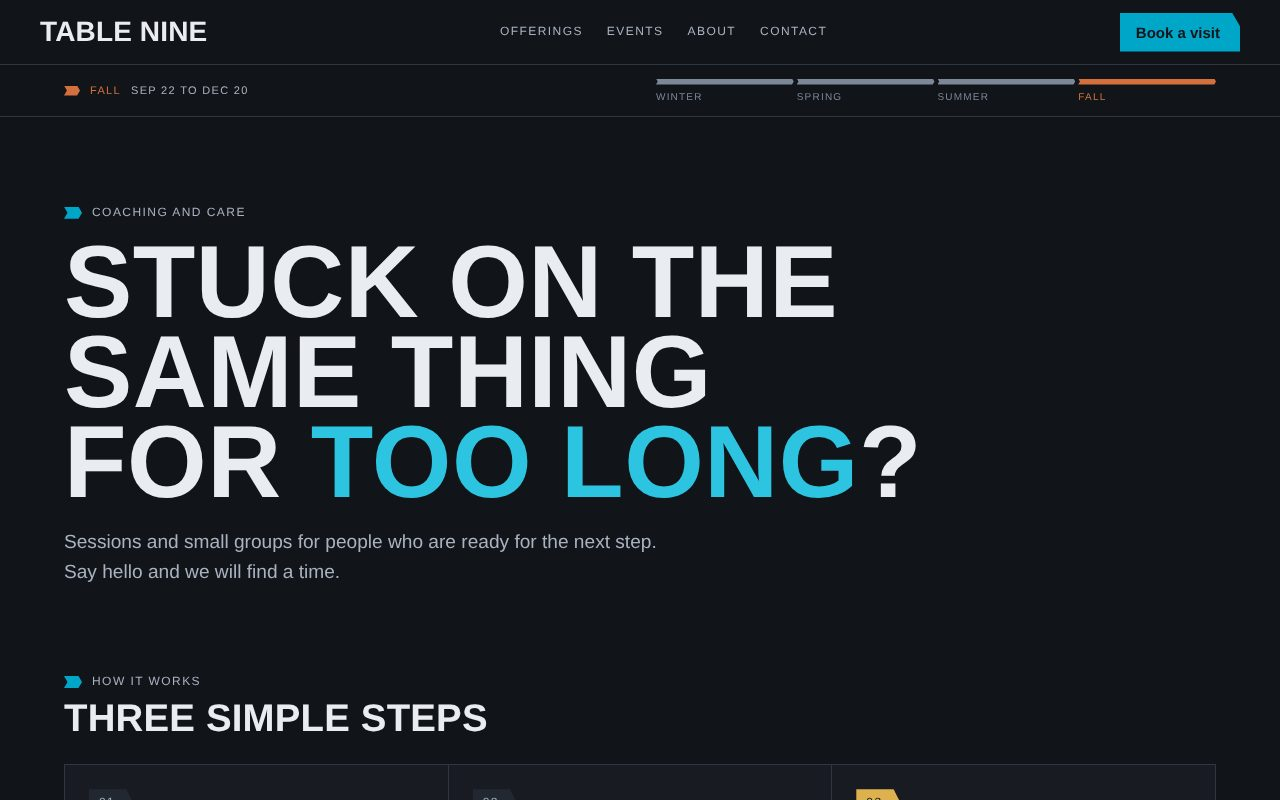
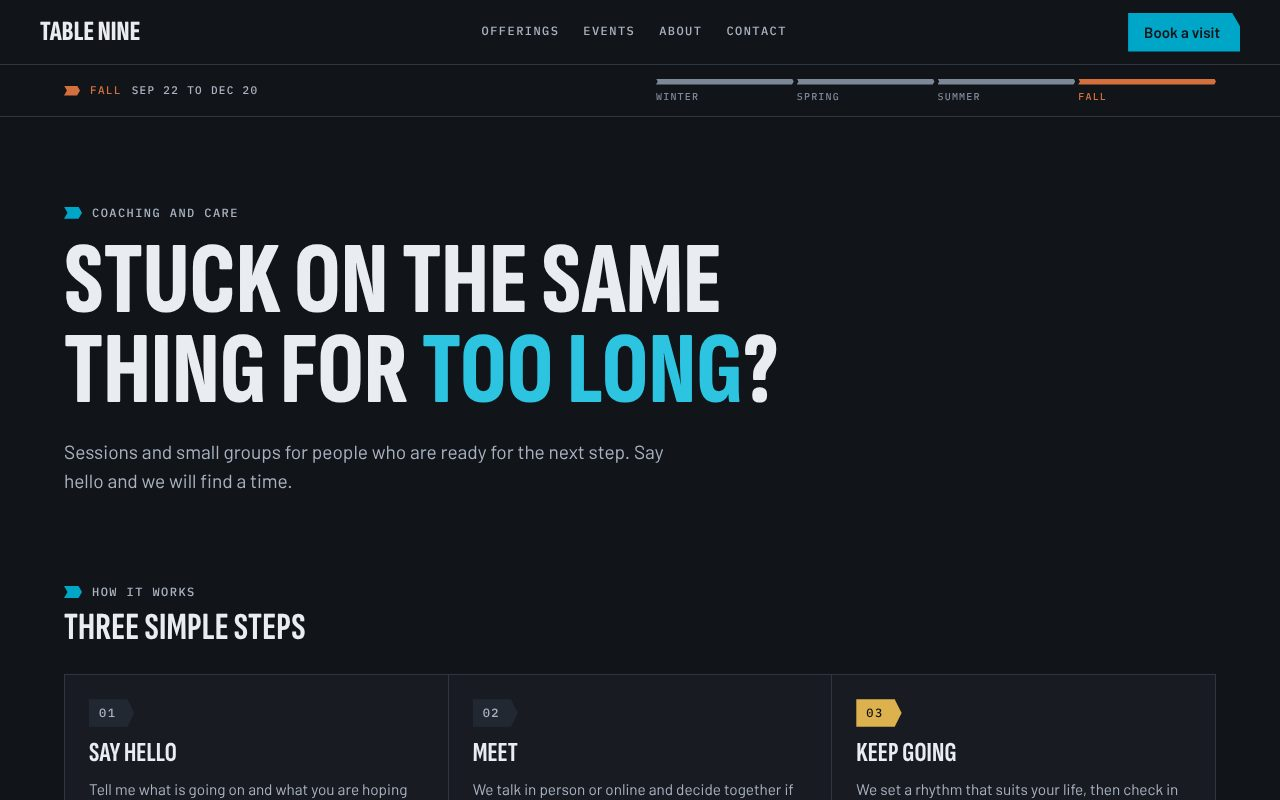
Bold: wear its own faces on the theme page pictures and the Spotlight preset
The /themes/bold pictures were rendered without Sofia Sans Extra Condensed, Barlow or IBM Plex Mono, so headlines fell back to Arial. The render script now loads them, and the Spotlight preset reads the design's faces with square cards instead of Anton/Unbounded and 6px corners. Bold pictures re-rendered.

Claude-Session: https://claude.ai/code/session_012BMmZTua5tanhv1qWDFWtP

diff --git a/scripts/render/theme-pages-shots.render.tsx b/scripts/render/theme-pages-shots.render.tsx
@@ -21,6 +21,13 @@ const out = process.env.RENDER_OUT
 const ROOT = process.cwd()
 const face = (fam: string, f: string, style = 'normal', w = '100 900') => `@font-face{font-family:"${fam}";src:url("file://${ROOT}/app/fonts/${f}") format("woff2");font-style:${style};font-weight:${w}}`
 const FACES = face('Unbounded', 'unbounded/unbounded.woff2', 'normal', '200 900') + face('Hanken Grotesk', 'hanken-grotesk/hanken-grotesk.woff2') + face('Instrument Serif', 'instrument-serif/instrument-serif-italic.woff2', 'italic', '400')
+// Bold's three faces (Sofia Sans Extra Condensed, Barlow, IBM Plex Mono). next/font defines these as --font-* variables on <html>
+// in the app; a bare page has to name them, or Bold's headlines fall back to Arial (the 2026-11-04 audit: /themes/bold showed Arial).
+const BOLD_FACES =
+  face('Sofia Sans Extra Condensed', 'sofia-sans-extra-condensed/sofia-sans-extra-condensed.woff2', 'normal', '1 1000') +
+  [400, 500, 600].map((w) => face('Barlow', `barlow/barlow-${w}.woff2`, 'normal', String(w))).join('') +
+  [400, 500].map((w) => face('IBM Plex Mono', `ibm-plex-mono/ibm-plex-mono-${w}.woff2`, 'normal', String(w))).join('')
+const BOLD_VARS = '--font-sofia-xc:"Sofia Sans Extra Condensed";--font-barlow:Barlow;--font-plex-mono:"IBM Plex Mono";'
 const pub = (html: string) => html.replace(/ loading="lazy"/g, '').replace(/(src|href)="\/(sites|brand|themes|create-a-space)\//g, `$1="file://${ROOT}/public/$2/`)
 
 type Skin = { theme: 'menswork' | 'wildheart'; season: 'fall' } | null
@@ -36,7 +43,7 @@ async function html(el: unknown): Promise<string> {
   return Buffer.concat(chunks).toString()
 }
 const shellDoc = (body: string) =>
-  `<!doctype html><html data-design="frequency" data-theme="light"><head><meta charset="utf-8"><meta name="viewport" content="width=device-width,initial-scale=1"><link rel="stylesheet" href="app.css"><link rel="stylesheet" href="fonts.css"><style>:root{--font-lexend:Lexend,system-ui,sans-serif}html{scrollbar-width:none}</style></head><body>${body}</body></html>`
+  `<!doctype html><html data-design="frequency" data-theme="light"><head><meta charset="utf-8"><meta name="viewport" content="width=device-width,initial-scale=1"><link rel="stylesheet" href="app.css"><link rel="stylesheet" href="fonts.css"><style>:root{--font-lexend:Lexend,system-ui,sans-serif;${BOLD_VARS}}html{scrollbar-width:none}</style></head><body>${body}</body></html>`
 
 it('renders the Bold and Wildheart surfaces', async () => {
   if (!out) throw new Error('set RENDER_OUT')
@@ -99,7 +106,7 @@ it('renders the Bold and Wildheart surfaces', async () => {
     )
     const vars = Object.entries(websiteThemeVars(t.ed as never, null, new Date('2026-10-15'))).map(([k, v]) => `${k}:${v}`).join(';').replace(/"/g, "'")
     const skinCss = t.skin === null ? FREQUENCY_PAGE_CSS : t.skin.theme === 'wildheart' ? FREQUENCY_PAGE_CSS + WILDHEART_CSS : MENSWORK_CSS + MENSWORK_PAGE_CSS
-    writeFileSync(`${out}/${t.id}-site.html`, pub(`<!doctype html><html><head><meta charset="utf-8"><meta name="viewport" content="width=device-width,initial-scale=1"><link rel="stylesheet" href="file://${out}/app.css"><style>${FACES}${HOUSE_CSS}${WEBSITE_TOKEN_CSS}${skinCss}*,*::before,*::after{box-sizing:border-box}html{scrollbar-width:none}body{margin:0}</style></head><body><div data-website-theme="${t.ed}" data-house-site style="${vars}">${site}</div></body></html>`))
+    writeFileSync(`${out}/${t.id}-site.html`, pub(`<!doctype html><html><head><meta charset="utf-8"><meta name="viewport" content="width=device-width,initial-scale=1"><link rel="stylesheet" href="file://${out}/app.css"><style>${FACES}${BOLD_FACES}:root{${BOLD_VARS}}${HOUSE_CSS}${WEBSITE_TOKEN_CSS}${skinCss}*,*::before,*::after{box-sizing:border-box}html{scrollbar-width:none}body{margin:0}</style></head><body><div data-website-theme="${t.ed}" data-house-site style="${vars}">${site}</div></body></html>`))
 
     // ---- Spotlight: the real shell on the theme's own preset.
     const preset = THEME_PRESETS.find((p) => p.id === t.mega)!.theme
@@ -108,7 +115,7 @@ it('renders the Bold and Wildheart surfaces', async () => {
       hostedEvents: [], canTip: false, programs: { circles: [], journeys: [], spaces: [] }, layout: { blocks: [] },
       background: { assetPath: null, dim: 0, focusX: 50, focusY: 50, zoom: 100 }, theme: preset, totalZaps: 0, contributionCounts: { eventsHosted: 0, journeysFinished: 0 }, guestbook: [], grid: null,
     }
-    const linkCards = ['Join the Thursday circle', 'This month’s dates', 'Book a first visit'].map((l) => h('a', { key: l, href: '#', style: { display: 'block', marginTop: 12, padding: 16, fontWeight: 600, color: 'var(--color-text)', background: 'var(--color-surface-elevated)', border: '1px solid color-mix(in srgb, var(--color-text) 18%, transparent)', borderRadius: ({ sm: 6, md: 12, lg: 18, xl: 28 } as Record<string, number>)[preset.card.radius] ?? 18, textDecoration: 'none' } }, l))
+    const linkCards = ['Join the Thursday circle', 'This month’s dates', 'Book a first visit'].map((l) => h('a', { key: l, href: '#', style: { display: 'block', marginTop: 12, padding: 16, fontWeight: 600, color: 'var(--color-text)', background: 'var(--color-surface-elevated)', border: '1px solid color-mix(in srgb, var(--color-text) 18%, transparent)', borderRadius: ({ none: 0, sm: 6, md: 12, lg: 18, xl: 28 } as Record<string, number>)[preset.card.radius] ?? 18, textDecoration: 'none' } }, l))
     const spot = await html(h(Shell as never, { data, showBio: true, sampleContent: true } as never, h('div', null, linkCards)))
     writeFileSync(`${out}/${t.id}-spot.html`, shellDoc(spot))
 

diff --git a/lib/spotlight/theme.ts b/lib/spotlight/theme.ts
@@ -18,7 +18,7 @@ import { asSpotlightLayoutId, type SpotlightLayoutId } from '@/lib/spotlight/lay
 // exposed as CSS variables on <html> (so they cascade to the public Spotlight route); each
 // stack references its variable with a system fallback. No member @font-face — the set is
 // a closed allowlist. ──
-type SpotlightFontId = 'sans' | 'serif' | 'rounded' | 'mono' | 'display' | 'script' | 'grotesk'
+type SpotlightFontId = 'sans' | 'serif' | 'rounded' | 'mono' | 'display' | 'script' | 'grotesk' | 'condensed' | 'barlow'
 export const SPOTLIGHT_FONTS: { id: SpotlightFontId; label: string; stack: string }[] = [
   { id: 'sans', label: 'Clean sans', stack: 'ui-sans-serif, system-ui, -apple-system, "Segoe UI", Roboto, sans-serif' },
   { id: 'serif', label: 'Elegant serif', stack: 'var(--font-playfair), Georgia, Cambria, "Times New Roman", serif' },
@@ -31,13 +31,17 @@ export const SPOTLIGHT_FONTS: { id: SpotlightFontId; label: string; stack: strin
   { id: 'display', label: 'Bold display', stack: 'var(--font-display, var(--design-font-display, var(--font-anton))), "Arial Black", Impact, system-ui, sans-serif' },
   { id: 'script', label: 'Handwritten', stack: 'var(--font-caveat), "Bradley Hand", "Comic Sans MS", cursive' },
   { id: 'grotesk', label: 'Modern grotesk', stack: 'var(--font-grotesk), "Helvetica Neue", system-ui, sans-serif' },
+  // Bold's two faces (the Bold design system: Sofia Sans Extra Condensed over Barlow). Both load on <html> already (app/layout.tsx), so a Spotlight
+  // can wear them. The 2026-11-04 audit found the Bold preset on Anton or Unbounded and the system sans, not the design's faces.
+  { id: 'condensed', label: 'Condensed caps', stack: 'var(--font-sofia-xc), "Arial Narrow", Impact, sans-serif' },
+  { id: 'barlow', label: 'Workmanlike sans', stack: 'var(--font-barlow), system-ui, sans-serif' },
 ]
 const FONT_BY_ID = new Map(SPOTLIGHT_FONTS.map((f) => [f.id, f.stack]))
 
-type CardRadius = 'sm' | 'md' | 'lg' | 'xl'
+type CardRadius = 'none' | 'sm' | 'md' | 'lg' | 'xl'
 type CardShadow = 'none' | 'soft' | 'strong'
 type CardStyle = 'solid' | 'glass'
-const RADIUS_PX: Record<CardRadius, string> = { sm: '6px', md: '12px', lg: '18px', xl: '28px' }
+const RADIUS_PX: Record<CardRadius, string> = { none: '0px', sm: '6px', md: '12px', lg: '18px', xl: '28px' }
 const SHADOW_CSS: Record<CardShadow, string> = {
   none: 'none',
   soft: '0 1px 3px rgba(0,0,0,0.08)',
@@ -145,7 +149,7 @@ export const THEME_PRESETS: { id: string; label: string; theme: SpotlightTheme }
   // Spotlight, the email and the website agree. Faces are the nearest of the allowlist (a theme's own faces load on
   // its website only); Bold and Network keep square and soft cards the way their websites do.
   { id: 'frequency', label: 'Default', theme: EMPTY_THEME },
-  { id: 'bold', label: 'Bold', theme: surfacePreset('bold', { heading: 'display', body: 'sans' }, { radius: 'sm', shadow: 'none', style: 'solid' }) },
+  { id: 'bold', label: 'Bold', theme: surfacePreset('bold', { heading: 'condensed', body: 'barlow' }, { radius: 'none', shadow: 'none', style: 'solid' }) },
   { id: 'wildheart', label: 'Wildheart', theme: surfacePreset('wildheart', { heading: 'serif', body: 'serif' }, { radius: 'xl', shadow: 'soft', style: 'solid' }) },
   // The Network Theme Kit (lib/theme/network-kit.ts): the Marigold scheme as a basic preset; its Spotlight layouts come with the kit.
   { id: 'network-kit', label: 'Network', theme: { ...surfacePreset('network-kit', { heading: 'rounded', body: 'rounded' }, { radius: 'xl', shadow: 'soft', style: 'solid' }), layout: 'network-kit:stack', kit: 'general' } },
@@ -233,7 +237,7 @@ export function validateSpotlightTheme(raw: unknown): SpotlightTheme {
       body: oneOf(font.body, SPOTLIGHT_FONTS.map((f) => f.id), 'sans'),
     },
     card: {
-      radius: oneOf(card.radius, ['sm', 'md', 'lg', 'xl'] as const, 'lg'),
+      radius: oneOf(card.radius, ['none', 'sm', 'md', 'lg', 'xl'] as const, 'lg'),
       shadow: oneOf(card.shadow, ['none', 'soft', 'strong'] as const, 'soft'),
       style: oneOf(card.style, ['solid', 'glass'] as const, 'solid'),
     },
